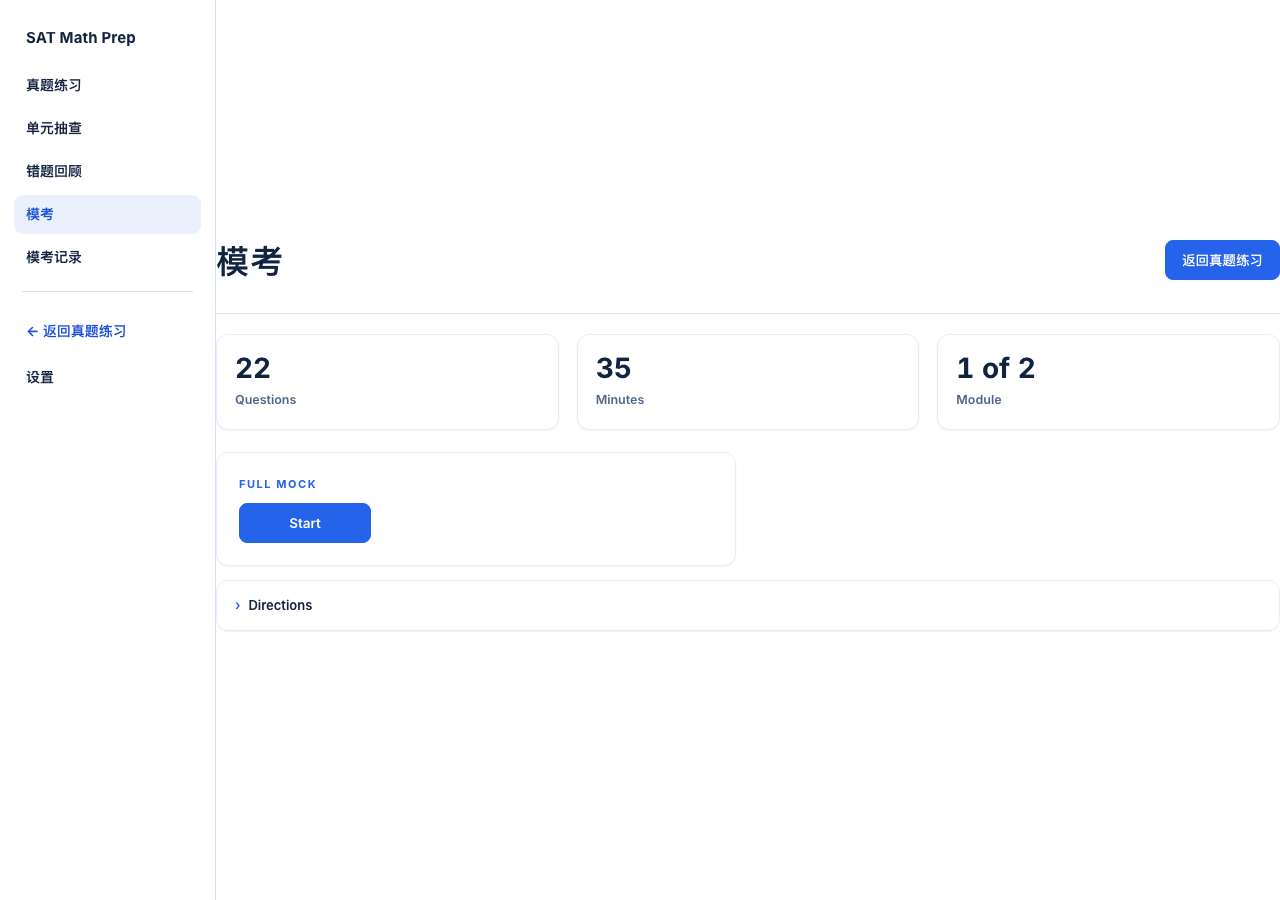
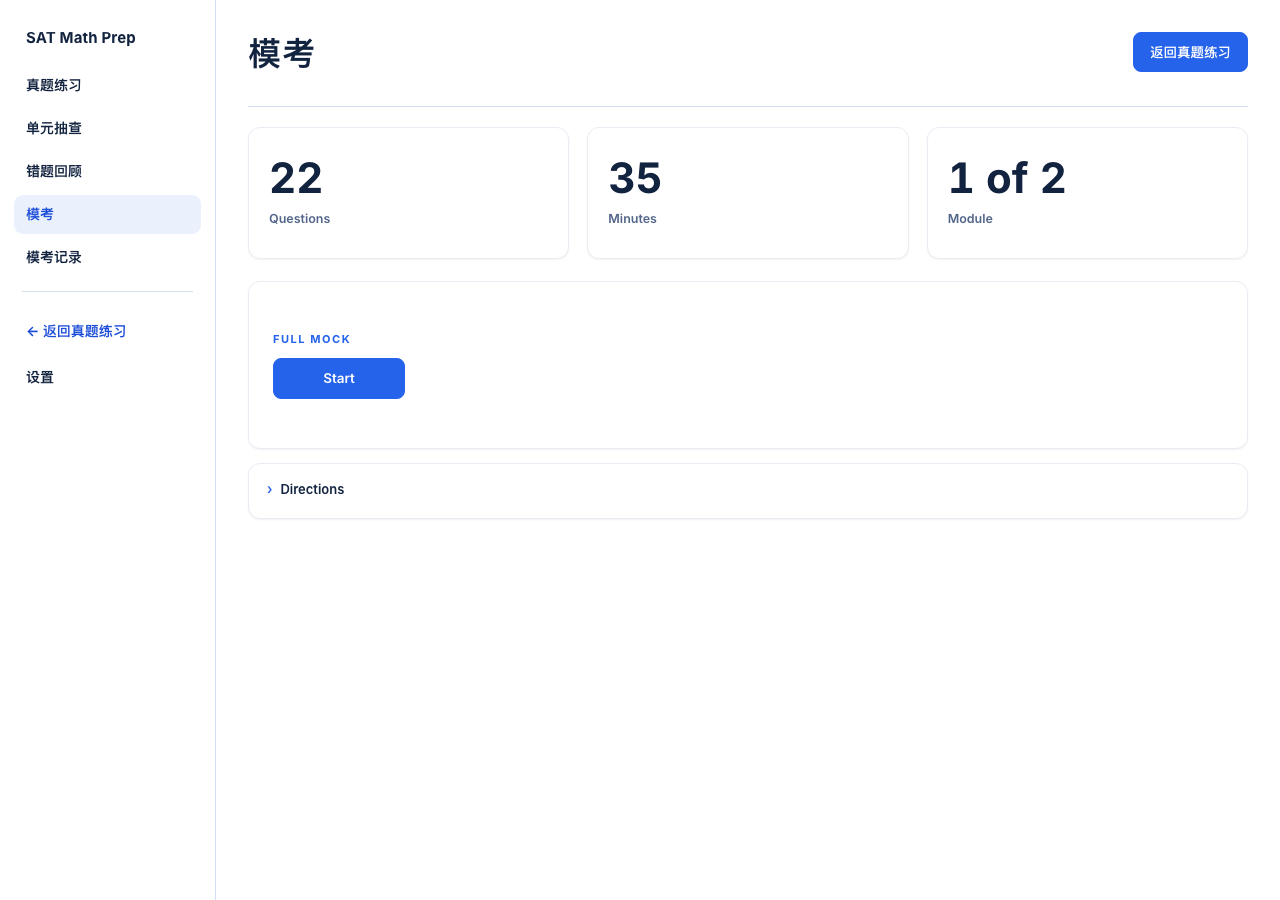
fix(exam): 入口页布局收口——顶部对齐、主卡整行铺满、窄屏去重复返回入口、卡片纵向节奏；错题卡口径改今日新增

diff --git a/app.css b/app.css
@@ -636,26 +636,31 @@ body.shell-drill .drill-board-panel{display:block!important}
 .sr-only{position:absolute;width:1px;height:1px;padding:0;margin:-1px;overflow:hidden;clip:rect(0,0,0,0);white-space:nowrap;border:0}
 
 /* 模考入口页：对齐错题回顾页的卡片密度、12px 圆角、#e8ecf3 边框 */
-.mock-entry{width:100%!important;max-width:1240px!important;margin:0 auto!important;padding:24px 0 56px!important}
+.mock-entry{width:100%!important;max-width:1240px!important;margin:0 auto!important;padding:32px 32px 56px!important}
 .mock-entry-head{margin-bottom:20px;padding-bottom:20px}
 .mock-stats{display:grid!important;grid-template-columns:repeat(3,minmax(0,1fr));gap:14px;margin:0 0 14px}
-.stat-card{display:flex;flex-direction:column;align-items:flex-start;justify-content:space-between;gap:6px;
-  padding:18px;border:1px solid #e8ecf3;border-radius:12px;background:var(--paper);box-shadow:var(--shadow-1);
+.stat-card{display:flex;flex-direction:column;align-items:flex-start;justify-content:center;gap:8px;
+  min-height:132px;padding:22px 20px;border:1px solid #e8ecf3;border-radius:12px;background:var(--paper);box-shadow:var(--shadow-1);
   transition:border-color .15s var(--ease),transform .15s var(--ease)}
 .stat-card:hover{border-color:var(--blue-line);transform:translateY(-2px)}
-.stat-card b{font-size:28px;line-height:1.1;color:var(--ink);font-variant-numeric:tabular-nums;font-weight:700}
+.stat-card b{font-size:42px;line-height:1.1;color:var(--ink);font-variant-numeric:tabular-nums;font-weight:700}
 .stat-card span{font-size:12.5px;color:var(--sub);border-right:0!important;padding-right:0!important}
-.mock-main-card{display:flex;flex-direction:column;gap:10px;padding:22px;border:1px solid #e8ecf3;border-radius:12px;
-  background:var(--paper);box-shadow:var(--shadow-1);max-width:520px}
+.mock-main-card{display:flex;flex-direction:column;justify-content:center;gap:10px;min-height:168px;padding:22px 24px;border:1px solid #e8ecf3;border-radius:12px;
+  background:var(--paper);box-shadow:var(--shadow-1);max-width:100%!important}
 .mock-main-card .exam-card-kicker{font-size:11px;font-weight:800;letter-spacing:.14em;text-transform:uppercase;color:var(--blue)}
 .mock-main-card .btn{align-self:flex-start;min-width:132px;min-height:44px;font-size:14px}
-.mock-directions{margin-top:14px;border:1px solid #e8ecf3;border-radius:12px;background:var(--paper);box-shadow:var(--shadow-1)}
-.mock-directions summary{padding:14px 18px;cursor:pointer;font-size:13px;font-weight:600;color:var(--ink);list-style:none}
+.mock-directions{margin-top:14px;min-height:56px;border:1px solid #e8ecf3;border-radius:12px;background:var(--paper);box-shadow:var(--shadow-1)}
+.mock-directions summary{padding:15px 18px;cursor:pointer;font-size:13px;font-weight:600;color:var(--ink);list-style:none}
 .mock-directions summary::before{content:'›';display:inline-block;margin-right:8px;color:var(--blue);transition:transform .15s var(--ease)}
 .mock-directions[open] summary::before{transform:rotate(90deg)}
 .mock-directions-body{padding:0 18px 16px;color:var(--sub);font-size:13px;line-height:1.7}
 .mock-directions-body p{margin:0 0 8px}
 .mock-directions-body .btn{margin-top:6px}
+
+/* 覆盖 bluebook 给 intro 舞台的垂直居中（旧稀疏版页面的平衡补丁）：
+   新卡片布局从内容区顶部开始，不再 min-height 撑满 + justify-center */
+body.exam-page:has(#stage-intro.active) #stage-intro{display:block!important;min-height:0!important;padding:0!important}
+body.exam-page:has(#stage-intro.active) .exam-start-main{margin-block:0!important;padding:32px 32px 56px!important}
 
 /* 错题回顾总览：一张主卡 + 三张次级小卡 */
 .stat-grid{display:grid;grid-template-columns:minmax(220px,1fr) repeat(3,minmax(0,1fr));gap:14px;margin-bottom:20px}
@@ -667,6 +672,10 @@ body.shell-drill .drill-board-panel{display:block!important}
 @media(max-width:999px){
   .mock-stats{grid-template-columns:repeat(2,minmax(0,1fr))}
   .stat-grid{grid-template-columns:repeat(2,minmax(0,1fr))}
+}
+@media(max-width:640px){
+  /* 窄屏 rail 已有「← 返回真题练习」入口，隐藏 hero 蓝按钮，避免同屏两个动作 */
+  body.exam-page #backPractice{display:none!important}
 }
 @media(max-width:560px){
   .mock-stats,.stat-grid{grid-template-columns:1fr}

diff --git a/wrong-page.js b/wrong-page.js
@@ -241,7 +241,8 @@ function importedGroupHtml(){
    all.forEach(function(x){if(!x.corrected)todo++;else done++;if(x.q&&x.q.unit)units[x.q.unit]=1;});
    var unitN=Object.keys(units).length;
    var el=document.getElementById('wrongHero');if(!el)return;
-   var pct=total?Math.round(done/total*100):0;
+   var today=new Date(); today.setHours(0,0,0,0);
+   var todayN=all.filter(function(x){return (x.date||0)>=today.getTime();}).length;
    var empty=total?'':'完成真题练习、单元抽查或模考后，错题会自动汇总到这里。';
    el.innerHTML='<div class="stat-card wrong-hero-main">'+
      '<p class="wrong-hero-label">待订正</p>'+
@@ -250,7 +251,7 @@ function importedGroupHtml(){
      '</div>'+
      '<div class="stat-card"><span>已订正</span><b>'+done+'</b></div>'+
      '<div class="stat-card"><span>涉及单元</span><b>'+unitN+'</b></div>'+
-     '<div class="stat-card"><span>订正进度</span><b>'+pct+'%</b></div>';
+     '<div class="stat-card"><span>今日新增</span><b>'+todayN+'</b></div>';
  }
  function render(){
    renderHero();
